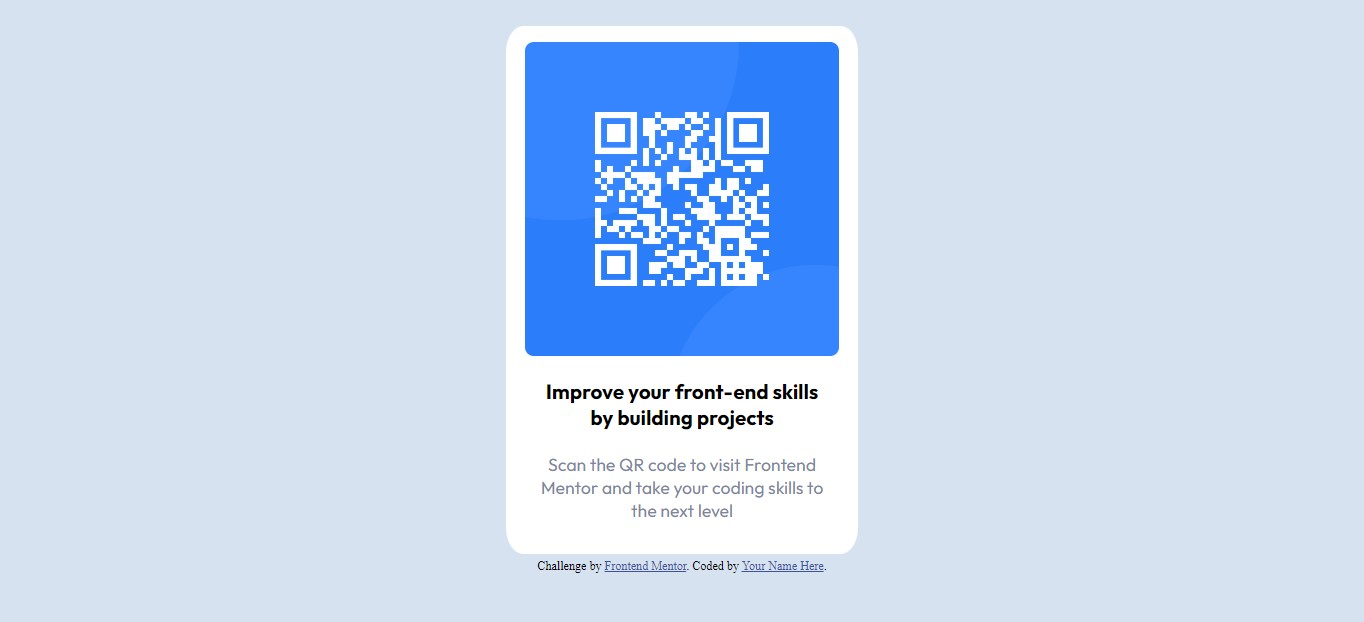
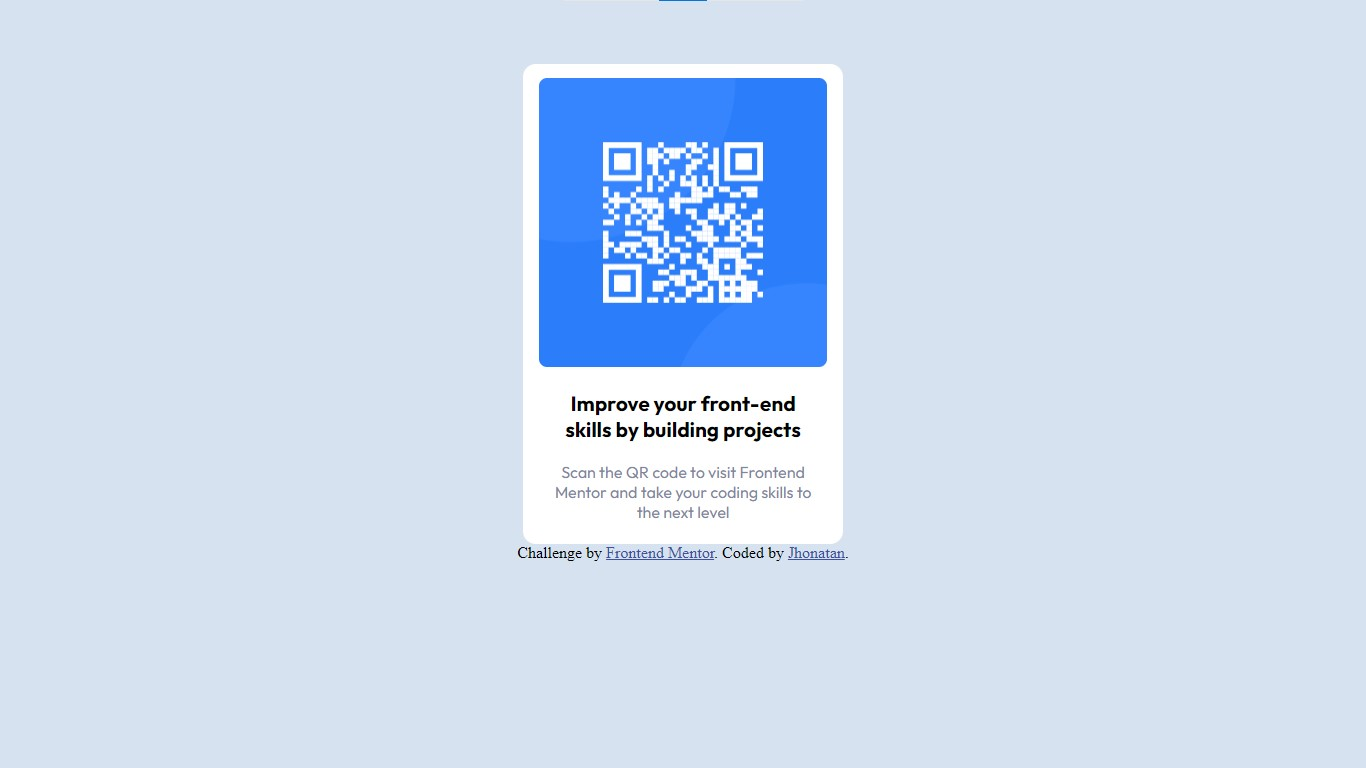
UPDATE

Changed region(s): [[0.3695, 0.0305, 0.6466, 0.9164]]

diff --git a/css/style.css b/css/style.css
@@ -1,3 +1,7 @@
+/********************* 
+General Configuration 
+*/
+
 *{
     margin: 0;
     padding: 0;
@@ -8,69 +12,68 @@
 body {
     
     background-color: hsl(212, 45%, 89%);
-    margin-top: 25px;
-    
+    margin-top: 4rem;
+    font-size: 1rem   
    
 }
 
 img {
 
     width: 95%;
-    border-radius: 8px;
-    margin: 5px auto;
-    
-    
-    
-        
+    border-radius: 0.5rem;
+    margin: 0.4rem auto;
+            
 }
 
-#container {
+main {
 
-    max-width: 1440px;
-    min-width: 375px;
+    max-width: 90rem;
+    min-width: 23rem;
     margin: 0 auto;
+    display: flex;
+    flex-direction: column;
+    align-items: center;
 }
 
-.qr-code {
-   display:flex;
-   border-radius: 5%;
-   background-color: hsl(0, 0%, 100%);
-   padding: 10px;
-   margin: 5px auto;
-   align-items: center;
-   flex-direction: column;
-   width: 320px; 
-   height: 480px;
-
-   
-
-    
-}
-
-h3, p {
+h1, p {
 
     font-family: Outfit, sans-serif;
     text-align: center;
-    padding-bottom: 6px;
-    margin: 15px;
+    padding-bottom: 0.3rem;
+    margin: 1rem;
 }
 
 
-h3 {
-    font-weight: 400px;
+h1 {
+    font-weight: 25rem;
+    font-size: 1.3rem; 
    
 }
 
 p {
     color:hsl(220, 15%, 55%);
     
-    
-    
-
 }
 
-.attribution { font-size: 11px; text-align: center; }
-.attribution a { color: hsl(228, 45%, 44%); }
+.qr-code {
+    display:flex;
+    border-radius: 0.8rem;
+    background-color: hsl(0, 0%, 100%);
+    padding: 0.5rem;
+    margin: 0,3rem auto;
+     flex-direction: column;
+    width: 20rem;
+    height: 30rem;
+       
+ }
+.attribution {
+     font-size: 1rem; text-align: center;
+ }
+
+.attribution a { 
+    color: hsl(228, 45%, 44%);
+ }
+
 
 /**********************************************************/
 

diff --git a/index.html b/index.html
@@ -5,7 +5,7 @@
     <meta name="viewport" content="width=device-width, initial-scale=1.0"> <!-- displays site properly based on user's device -->
 
     <link rel="icon" type="image/png" sizes="32x32" href="./images/favicon-32x32.png">
-    <link rel="stylesheet" type="text/css" href="css/style.css">
+    <link rel="stylesheet" type="text/css" href="css/style.css"> <!-- My External Sheet-->
     
     <title> Frontend Mentor | QR code component</title>
 
@@ -14,22 +14,23 @@
   </head>
   <body>
 
-      <div id="container">
+      <main role="main"> <!--Main container -->
         
-        <div class="qr-code">
-            <img src="images/image-qr-code.png" alt="QRCODE Image to scan">
+        <div role="Qr-code-image" class="qr-code" >
+            <img src="images/image-qr-code.png" alt="QRCODE Image to scan"> <!--acessibility-->
 
-            <div>
-              <h3>Improve your front-end skills by building projects</h3>
+            <div role="contentinfo">
+              <h1>Improve your front-end skills by building projects</h1>
 
               <p>Scan the QR code to visit Frontend Mentor and take your coding skills to the next level</p>
             </div>
         </div>      
       
-        <div class="attribution">
+        <div role="link" class="attribution">
             Challenge by <a href="https://www.frontendmentor.io?ref=challenge" target="_blank">Frontend Mentor</a>. 
-            Coded by <a href="#">Jhonatan</a>.
+            Coded by <a href="https://twitter.com/JhonnyDomingues" target="_blank">Jhonatan</a>. <!--twitter LINK-->
+
         </div>
-    </div>
+    </main> <!--The End of Main Container-->
   </body>
 </html>

diff --git a/README.md b/README.md
@@ -13,8 +13,10 @@ STEP 01 - Defines the General  HTML/CSS Structure and organize the elements insi
 STEP 02 - Import the image and Configured the background, font-style, font-size and font-family
 STEP 03 - Configure the Div using border-radius, defined the width/height, background, border-radius,display flex directions. OBS: For me this was kinda difficult, i've find some help in W3School..
 STEP 04 - Configure all the margins, paddings and some details that pass through ( I have some problem with )
-STEP 05- Here I had some problems, my layout was breaking as it was decreasing to test liquidity, after racking my brain, i try put all of my layout inside a Div with class container. didnt break anymore.
-
+STEP 05- Here I had some problems, my layout was breaking as it was decreasing to test liquidity, after racking my brain, i try put all of my layout inside a Div with class container. didnt break anymore
+##### UPDATE #####
+As commented By [@Lucas](https://www.frontendmentor.io/profile/correlucas) I resolve so make some Changes 
+Change all the px to rem and try to make the code more semantics, i'm new on that so, feel free to check and comment if is something i could change
 
 ### Built with
 
